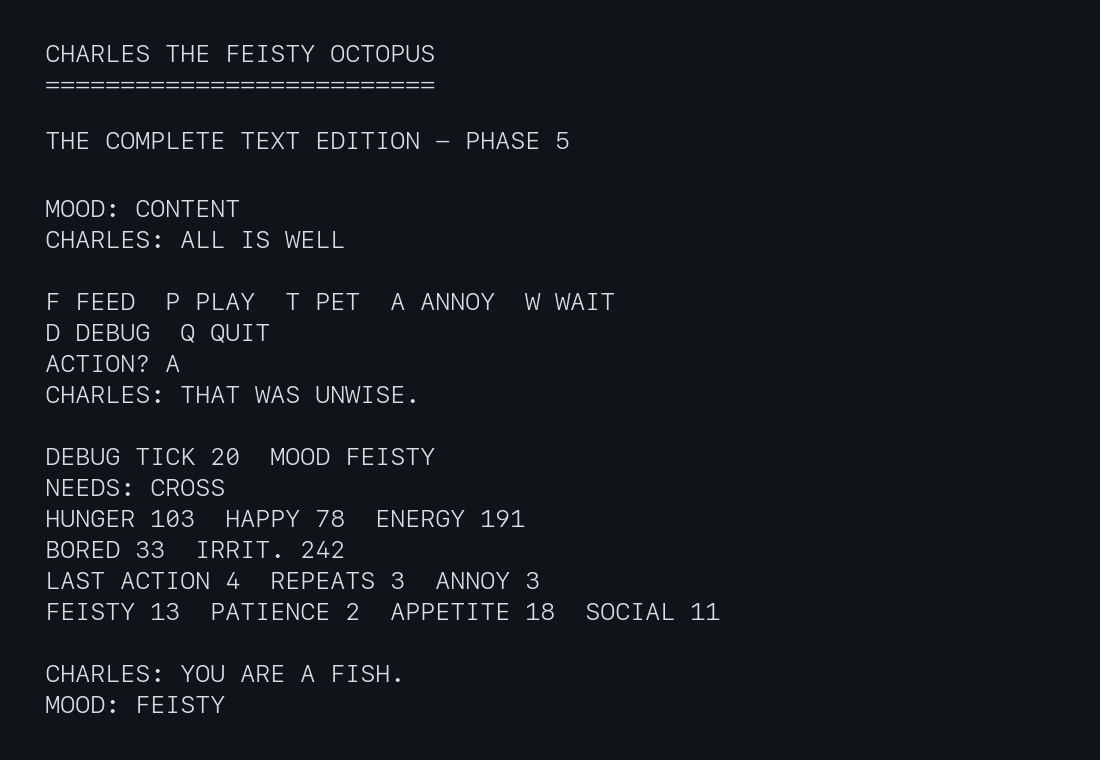
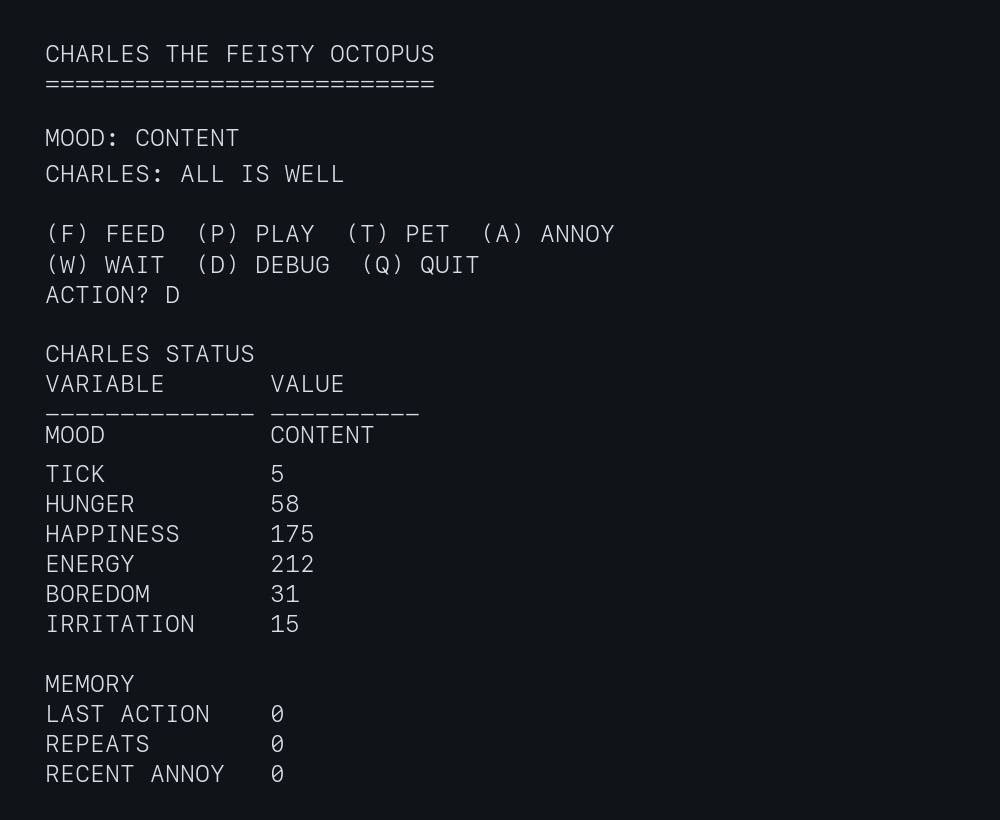
Debug -> current status

diff --git a/Programs/Charles/README.md b/Programs/Charles/README.md
@@ -37,15 +37,16 @@ available controls. At each action prompt, enter one of these letters:
 | T   | Pet Charles |
 | A   | Annoy Charles |
 | W   | Wait without interacting |
-| D   | Toggle the detailed debug display |
+| D   | Show a snapshot of the current internal state |
 | Q   | Quit cleanly |
 
 Uppercase and lowercase letters are accepted. Invalid input displays the valid
 choices and repeats the prompt.
 
 Charles normally displays concise mood updates, actions, and opinions. Press
-`D` to show the complete internal state after each interaction and before each
-action prompt. Each need value is kept in the range 0 to 255.
+`D` to print the complete internal state at that moment. The snapshot is shown
+once; subsequent output remains concise. Each need value is kept in the range
+0 to 255.
 
 The timing is approximate because it uses a processor delay loop. Change `DL`
 on line 30 to adjust the interval between simulation ticks, `DI` on line 40 to
@@ -110,15 +111,19 @@ Small pseudo-random variations also affect metabolism and the consequences of
 accepted interactions. Need thresholds and mood priorities still dominate, so
 randomness modifies understandable behaviour rather than replacing it.
 
-## Debug Display
+## Debug Snapshot
 
-The optional debug panel shows:
+The one-shot debug table shows:
 
 - Simulation tick and current mood
 - Active needs
 - Hunger, happiness, energy, boredom, and irritation
 - Last action number, repetition count, and recent annoyance count
 - Feistiness, patience, appetite, and sociability biases
+
+The output is divided into current state, memory, and personality sections.
+Labels use a fixed-width `VARIABLE / VALUE` layout so changing numeric widths
+do not disturb the table.
 
 Action numbers are `1` feed, `2` play, `3` pet, and `4` annoy. Pressing `W`
 clears the repeated-action chain but does not immediately erase recent
@@ -154,7 +159,7 @@ MOOD: FEISTY
 Configuration values are grouped at the beginning of the program:
 
 - `DL` controls the approximate simulation delay.
-- `DI` controls the number of ticks between action prompts and debug updates.
+- `DI` controls the number of ticks between action prompts.
 - `MI` controls periodic messages.
 - `SI` controls spontaneous events.
 - `NH`, `NB`, and `NE` are the hungry, bored, and low-energy thresholds.
